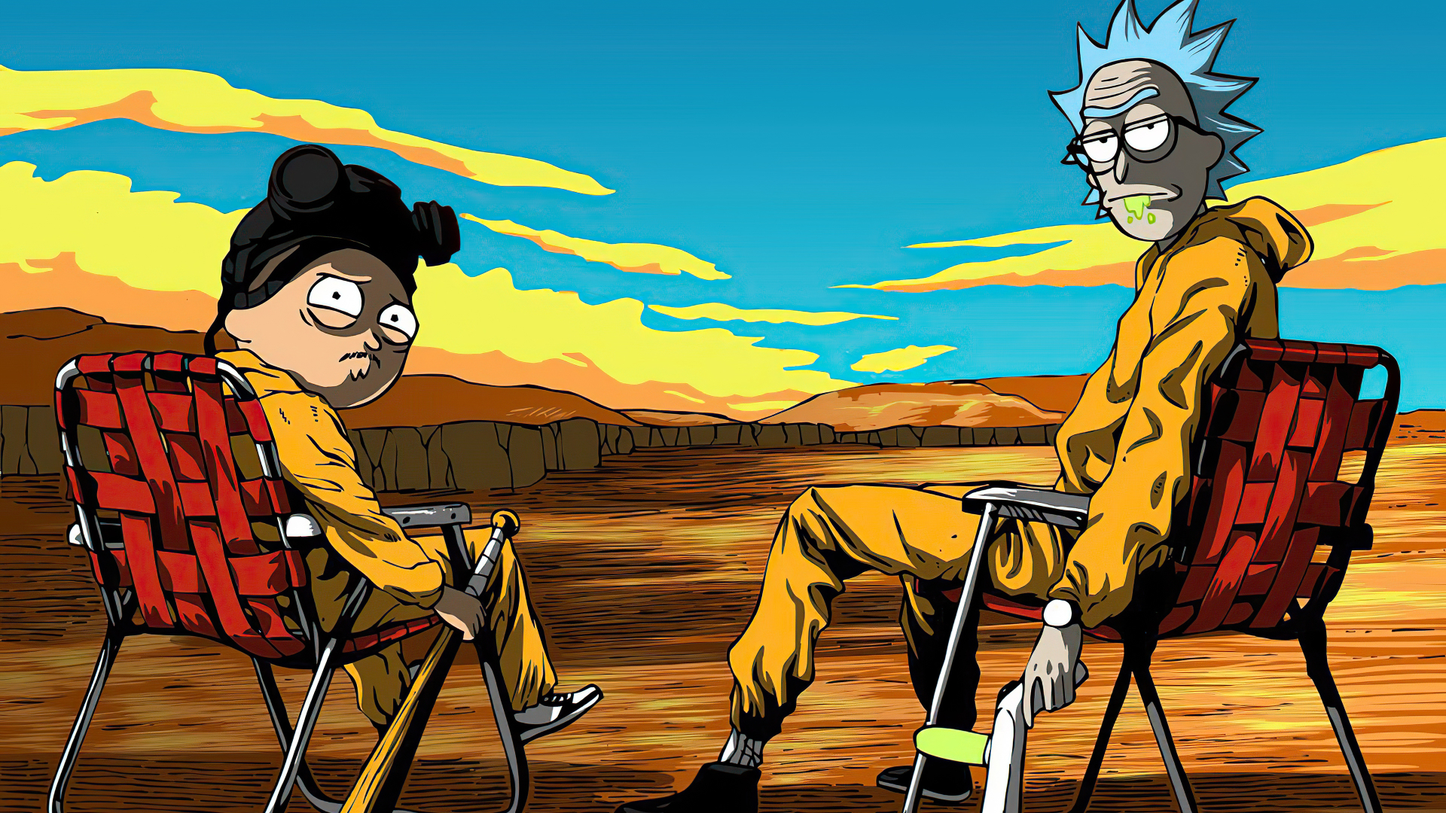
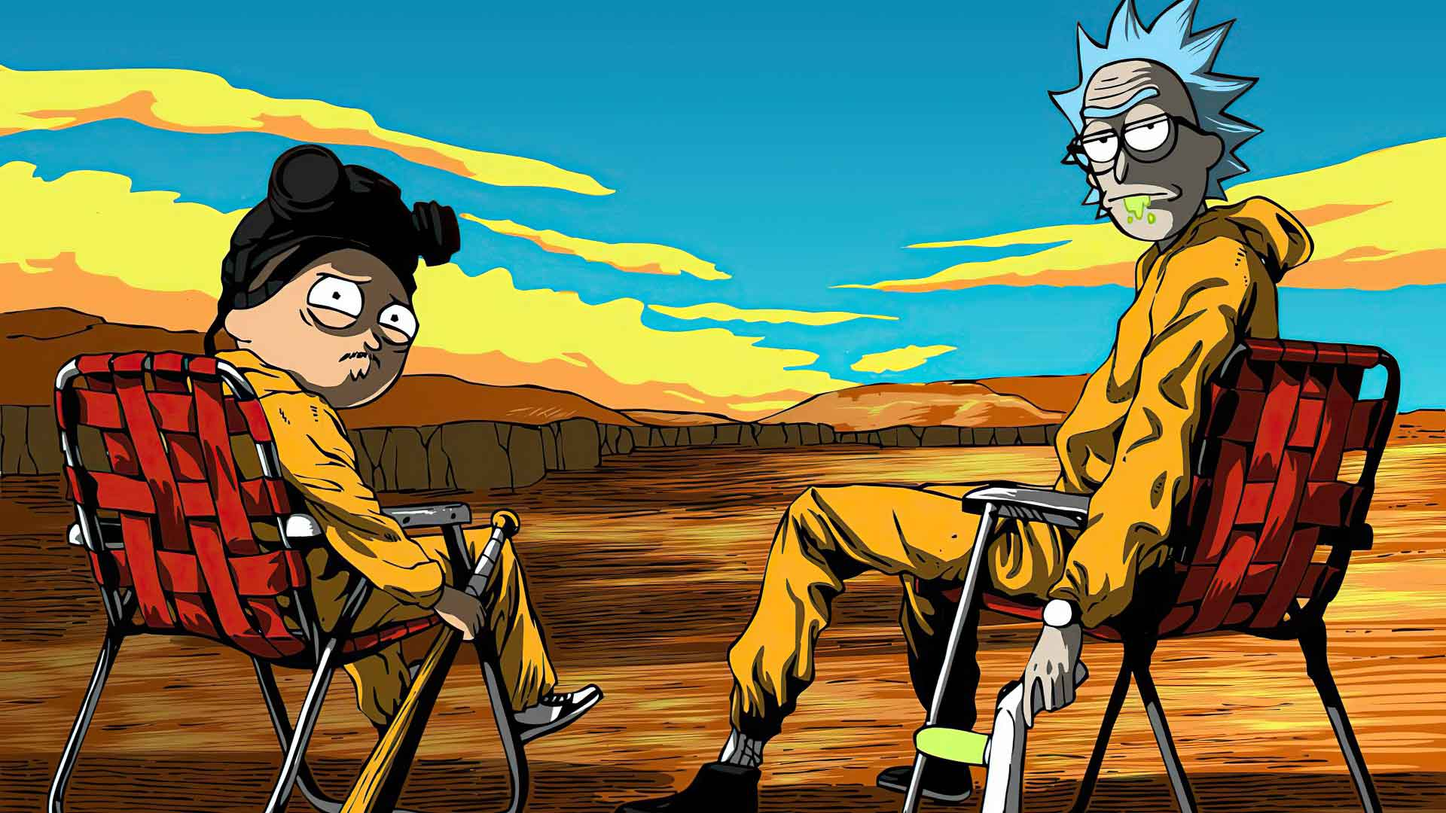
edit pic

diff --git a/index.html b/index.html
@@ -51,13 +51,13 @@
         <div id="carouselExampleInterval" class="carousel slide cus-hover" data-bs-ride="carousel">
             <div class="carousel-inner">
                 <div class="carousel-item" data-bs-interval="5000">
-                    <img src="images/carousel-1.png" class="d-block w-100" alt="rick and morty art">
+                    <img src="images/carousel-1.jpg" class="d-block w-100" alt="rick and morty art">
                 </div>
                 <div class="carousel-item" data-bs-interval="5000">
                     <img src="images/carousel-2.jpg" class="d-block w-100" alt="rick and morty art">
                 </div>
                 <div class="carousel-item active" data-bs-interval="5000">
-                    <img src="images/carousel-3.png" class="d-block w-100" alt="rick and morty art">
+                    <img src="images/carousel-3.jpg" class="d-block w-100" alt="rick and morty art">
                 </div>
             </div>
             <button class="carousel-control-prev" type="button" data-bs-target="#carouselExampleInterval"
